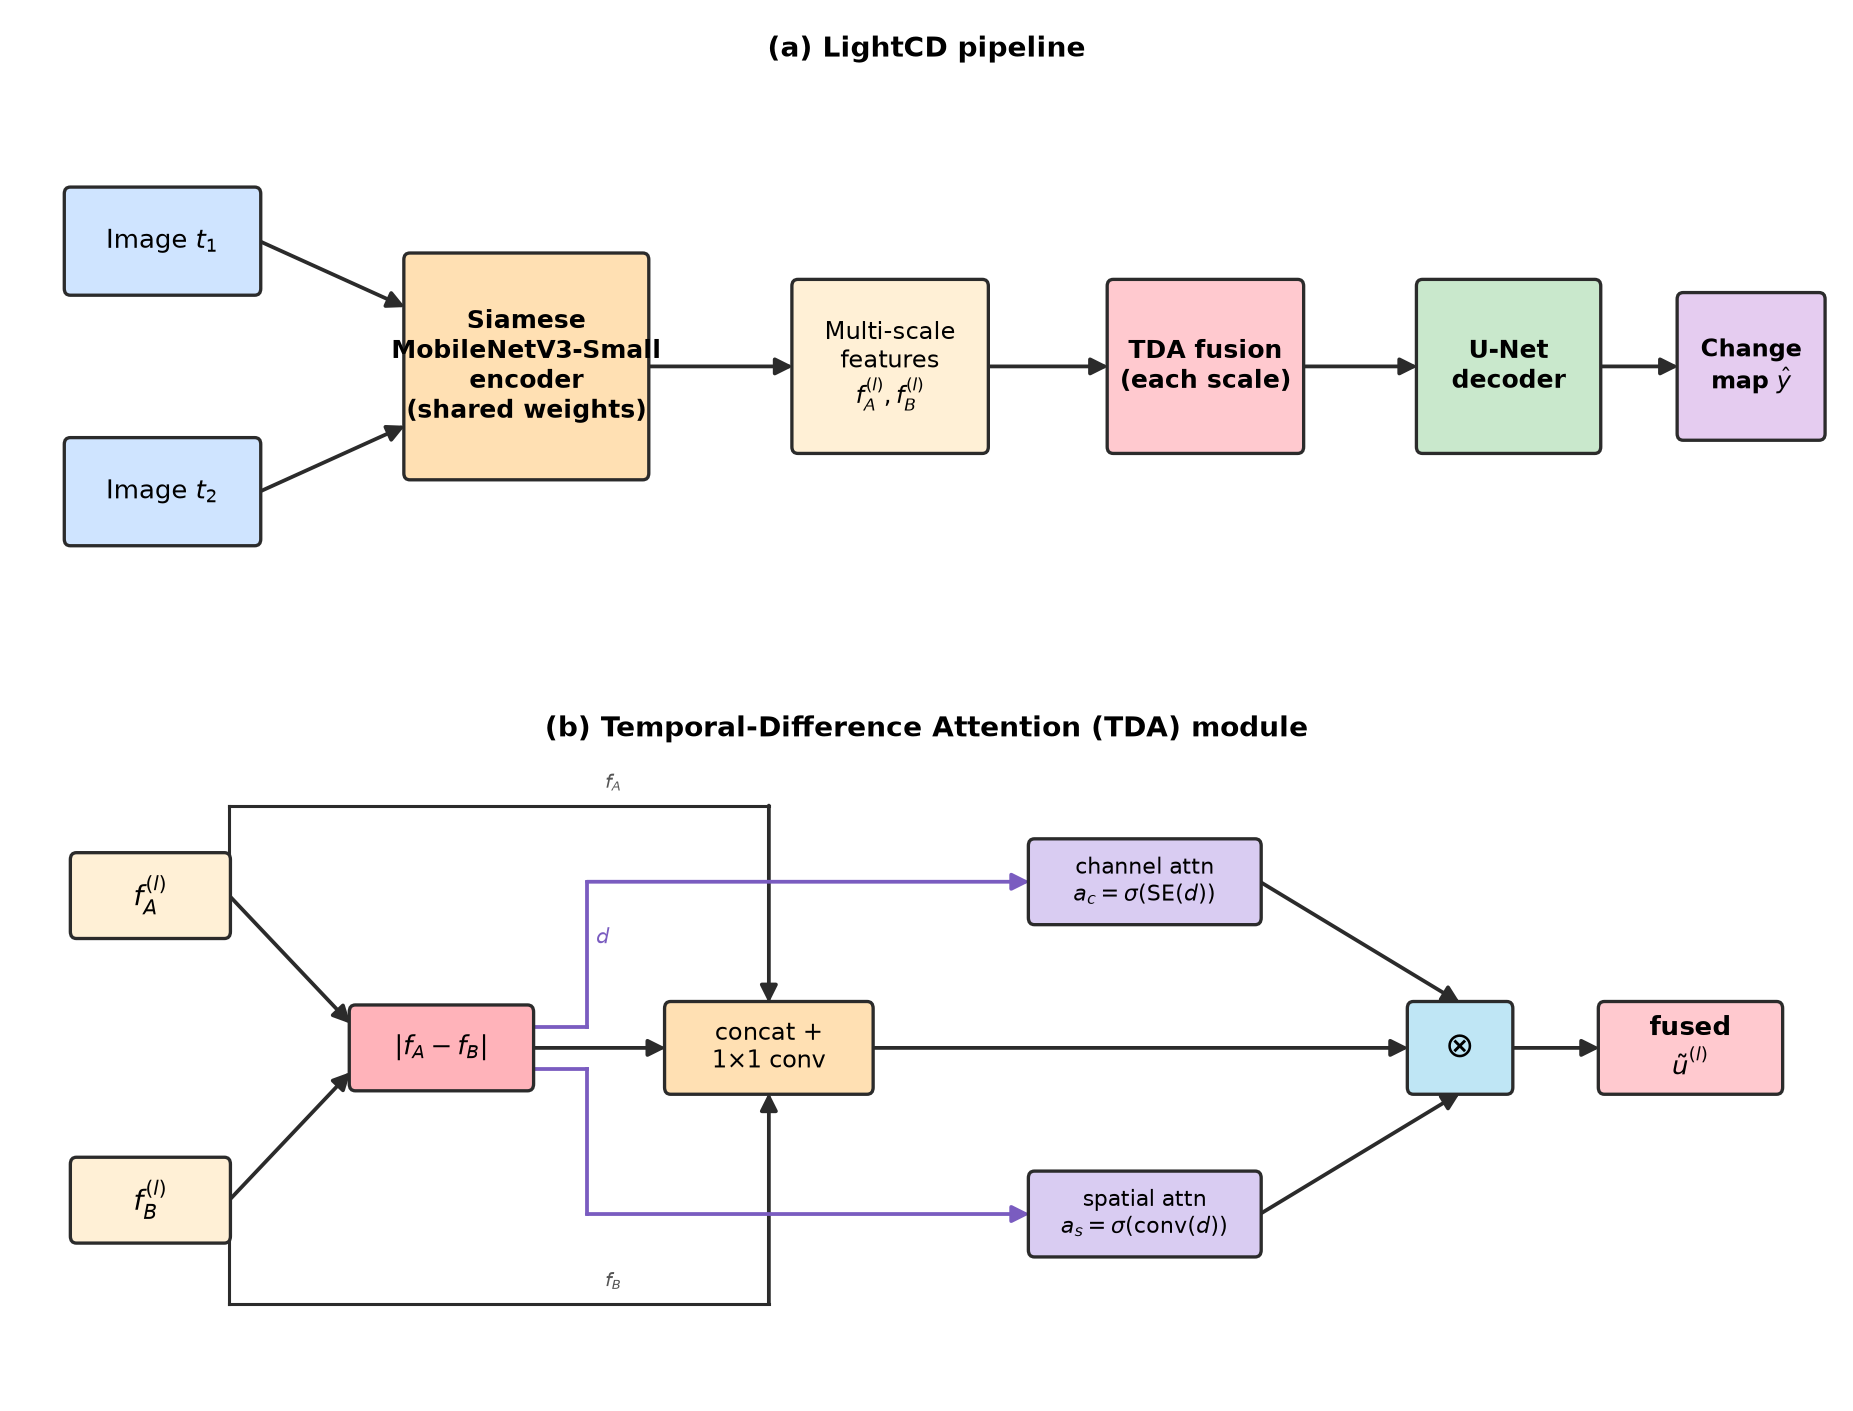
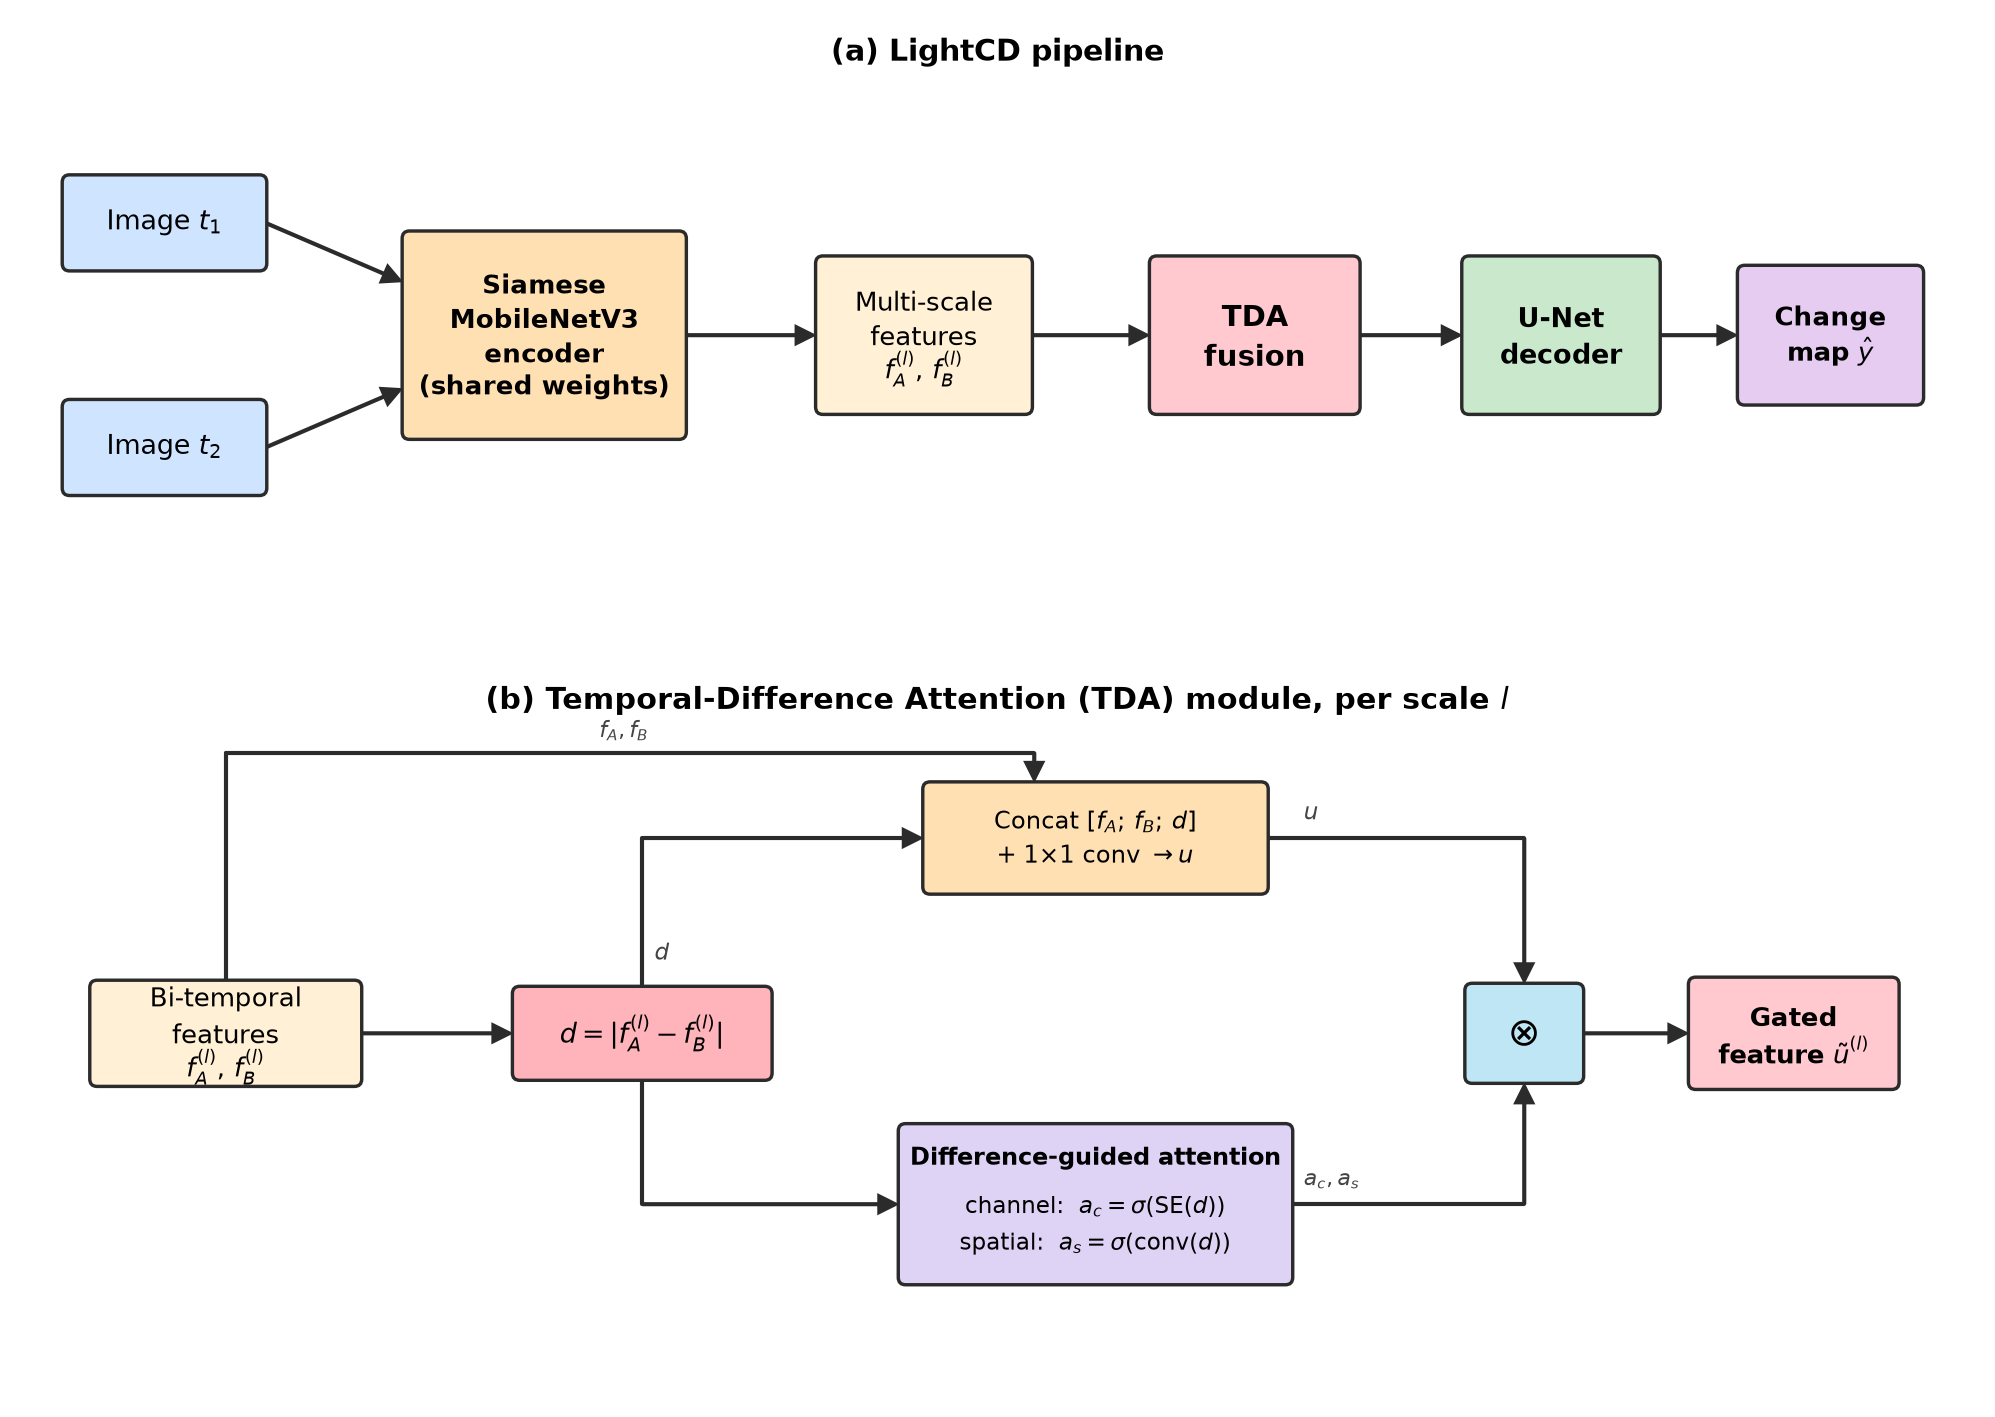
Improve architecture figure (clean flow, fitted boxes) and include its generator

diff --git a/scripts/make_architecture_fig.py b/scripts/make_architecture_fig.py
@@ -1,0 +1,100 @@
+"""Journal-quality LightCD architecture diagram (figures/architecture.png).
+(a) overall pipeline; (b) the TDA module. Generously sized boxes (no text
+overflow) and orthogonal, non-overlapping connectors (clean flow).
+"""
+import os
+import matplotlib
+matplotlib.use("Agg")
+import matplotlib.pyplot as plt
+from matplotlib.patches import FancyBboxPatch, FancyArrowPatch
+
+ROOT = os.path.abspath(os.path.join(os.path.dirname(__file__), ".."))
+FIG = os.path.join(ROOT, "figures")
+os.makedirs(FIG, exist_ok=True)
+
+C_IMG = "#cfe4ff"; C_ENC = "#ffe0b3"; C_FEAT = "#fff0d6"
+C_TDA = "#ffc9cf"; C_DEC = "#c9e8cc"; C_OUT = "#e5ccf0"; C_ATT = "#ded2f5"; C_OP = "#bfe6f5"
+EDGE = "#2b2b2b"
+
+
+def box(ax, cx, cy, w, h, text, color, fs=11, bold=False):
+    ax.add_patch(FancyBboxPatch((cx - w/2, cy - h/2), w, h,
+                 boxstyle="round,pad=0.02,rounding_size=0.12",
+                 linewidth=1.4, edgecolor=EDGE, facecolor=color, zorder=3))
+    ax.text(cx, cy, text, ha="center", va="center", fontsize=fs,
+            fontweight="bold" if bold else "normal", zorder=4, linespacing=1.35)
+    return dict(cx=cx, cy=cy, l=cx-w/2, r=cx+w/2, t=cy+h/2, b=cy-h/2)
+
+
+def arr(ax, p0, p1, color=EDGE, lw=1.7):
+    ax.add_patch(FancyArrowPatch(p0, p1, arrowstyle="-|>", mutation_scale=16,
+                 lw=lw, color=color, zorder=2, shrinkA=0, shrinkB=0,
+                 joinstyle="miter", capstyle="butt"))
+
+
+def poly(ax, pts, color=EDGE, lw=1.7):
+    """orthogonal polyline with an arrow head on the last segment."""
+    for i in range(len(pts) - 2):
+        ax.plot([pts[i][0], pts[i+1][0]], [pts[i][1], pts[i+1][1]],
+                color=color, lw=lw, zorder=2, solid_capstyle="round")
+    arr(ax, pts[-2], pts[-1], color=color, lw=lw)
+
+
+fig, (axa, axb) = plt.subplots(2, 1, figsize=(11.5, 8.2),
+                               gridspec_kw={"height_ratios": [0.92, 1.08]})
+
+# ================= (a) pipeline =================
+axa.set_xlim(0, 32); axa.set_ylim(0, 10); axa.axis("off")
+axa.text(16, 9.3, "(a) LightCD pipeline", ha="center", fontsize=12.5, fontweight="bold")
+
+imgA = box(axa, 2.4, 6.7, 3.3, 1.5, "Image $t_1$", C_IMG, 11)
+imgB = box(axa, 2.4, 3.1, 3.3, 1.5, "Image $t_2$", C_IMG, 11)
+enc  = box(axa, 8.6, 4.9, 4.6, 3.3, "Siamese\nMobileNetV3\nencoder\n(shared weights)", C_ENC, 10.5, True)
+feat = box(axa, 14.8, 4.9, 3.5, 2.5, "Multi-scale\nfeatures\n$f_A^{(l)},\\, f_B^{(l)}$", C_FEAT, 10.5)
+tda  = box(axa, 20.2, 4.9, 3.4, 2.5, "TDA\nfusion", C_TDA, 12, True)
+dec  = box(axa, 25.2, 4.9, 3.2, 2.5, "U-Net\ndecoder", C_DEC, 11, True)
+out  = box(axa, 29.6, 4.9, 3.0, 2.2, "Change\nmap $\\hat{y}$", C_OUT, 10.5, True)
+
+arr(axa, (imgA["r"], imgA["cy"]), (enc["l"], enc["cy"]+0.85))
+arr(axa, (imgB["r"], imgB["cy"]), (enc["l"], enc["cy"]-0.85))
+for A, B in [(enc, feat), (feat, tda), (tda, dec), (dec, out)]:
+    arr(axa, (A["r"], 4.9), (B["l"], 4.9))
+
+# ================= (b) TDA module =================
+axb.set_xlim(0, 32); axb.set_ylim(0, 12); axb.axis("off")
+axb.text(16, 11.3, "(b) Temporal-Difference Attention (TDA) module, per scale $l$",
+         ha="center", fontsize=12.5, fontweight="bold")
+
+src  = box(axb, 3.4, 6.0, 4.4, 1.7, "Bi-temporal\nfeatures\n$f_A^{(l)},\\, f_B^{(l)}$", C_FEAT, 10.5)
+diff = box(axb, 10.2, 6.0, 4.2, 1.5, "$d = |f_A^{(l)} - f_B^{(l)}|$", "#ffb3ba", 11, True)
+fuse = box(axb, 17.6, 9.2, 5.6, 1.8, "Concat $[f_A;\\, f_B;\\, d]$\n$+\\; 1{\\times}1$ conv $\\to u$", C_ENC, 10)
+attn = box(axb, 17.6, 3.2, 6.4, 2.6, "", C_ATT, 9.5)
+axb.text(17.6, 3.95, "Difference-guided attention", ha="center", va="center",
+         fontsize=10, fontweight="bold", zorder=5)
+axb.text(17.6, 3.15, r"channel:  $a_c=\sigma(\mathrm{SE}(d))$", ha="center", va="center",
+         fontsize=9.5, zorder=5)
+axb.text(17.6, 2.55, r"spatial:  $a_s=\sigma(\mathrm{conv}(d))$", ha="center", va="center",
+         fontsize=9.5, zorder=5)
+gate = box(axb, 24.6, 6.0, 1.9, 1.6, "$\\otimes$", C_OP, 16, True)
+fused = box(axb, 29.0, 6.0, 3.4, 1.8, "Gated\nfeature $\\tilde{u}^{(l)}$", C_TDA, 10.5, True)
+
+# src -> diff (straight); src -> fuse (top arc, labelled f_A,f_B)
+arr(axb, (src["r"], 6.0), (diff["l"], 6.0))
+poly(axb, [(src["cx"], src["t"]), (src["cx"], 10.6), (fuse["cx"]-1.0, 10.6), (fuse["cx"]-1.0, fuse["t"])])
+axb.text(9.5, 10.85, "$f_A, f_B$", fontsize=9, color="#444")
+# diff -> fuse (up) ; diff -> attn (down)
+poly(axb, [(diff["cx"], diff["t"]), (diff["cx"], fuse["cy"]), (fuse["l"], fuse["cy"])])
+poly(axb, [(diff["cx"], diff["b"]), (diff["cx"], attn["cy"]), (attn["l"], attn["cy"])])
+axb.text(diff["cx"]+0.2, 7.2, "$d$", fontsize=9.5, color="#444")
+# fuse -> gate (down) ; attn -> gate (up)
+poly(axb, [(fuse["r"], fuse["cy"]), (gate["cx"], fuse["cy"]), (gate["cx"], gate["t"])])
+poly(axb, [(attn["r"], attn["cy"]), (gate["cx"], attn["cy"]), (gate["cx"], gate["b"])])
+axb.text(21.0, 9.5, "$u$", fontsize=9.5, color="#444")
+axb.text(21.0, 3.5, "$a_c, a_s$", fontsize=9, color="#444")
+# gate -> fused
+arr(axb, (gate["r"], 6.0), (fused["l"], 6.0))
+
+plt.tight_layout()
+p = os.path.join(FIG, "architecture.png")
+plt.savefig(p, dpi=175, bbox_inches="tight", facecolor="white"); plt.close()
+print("wrote", p)
